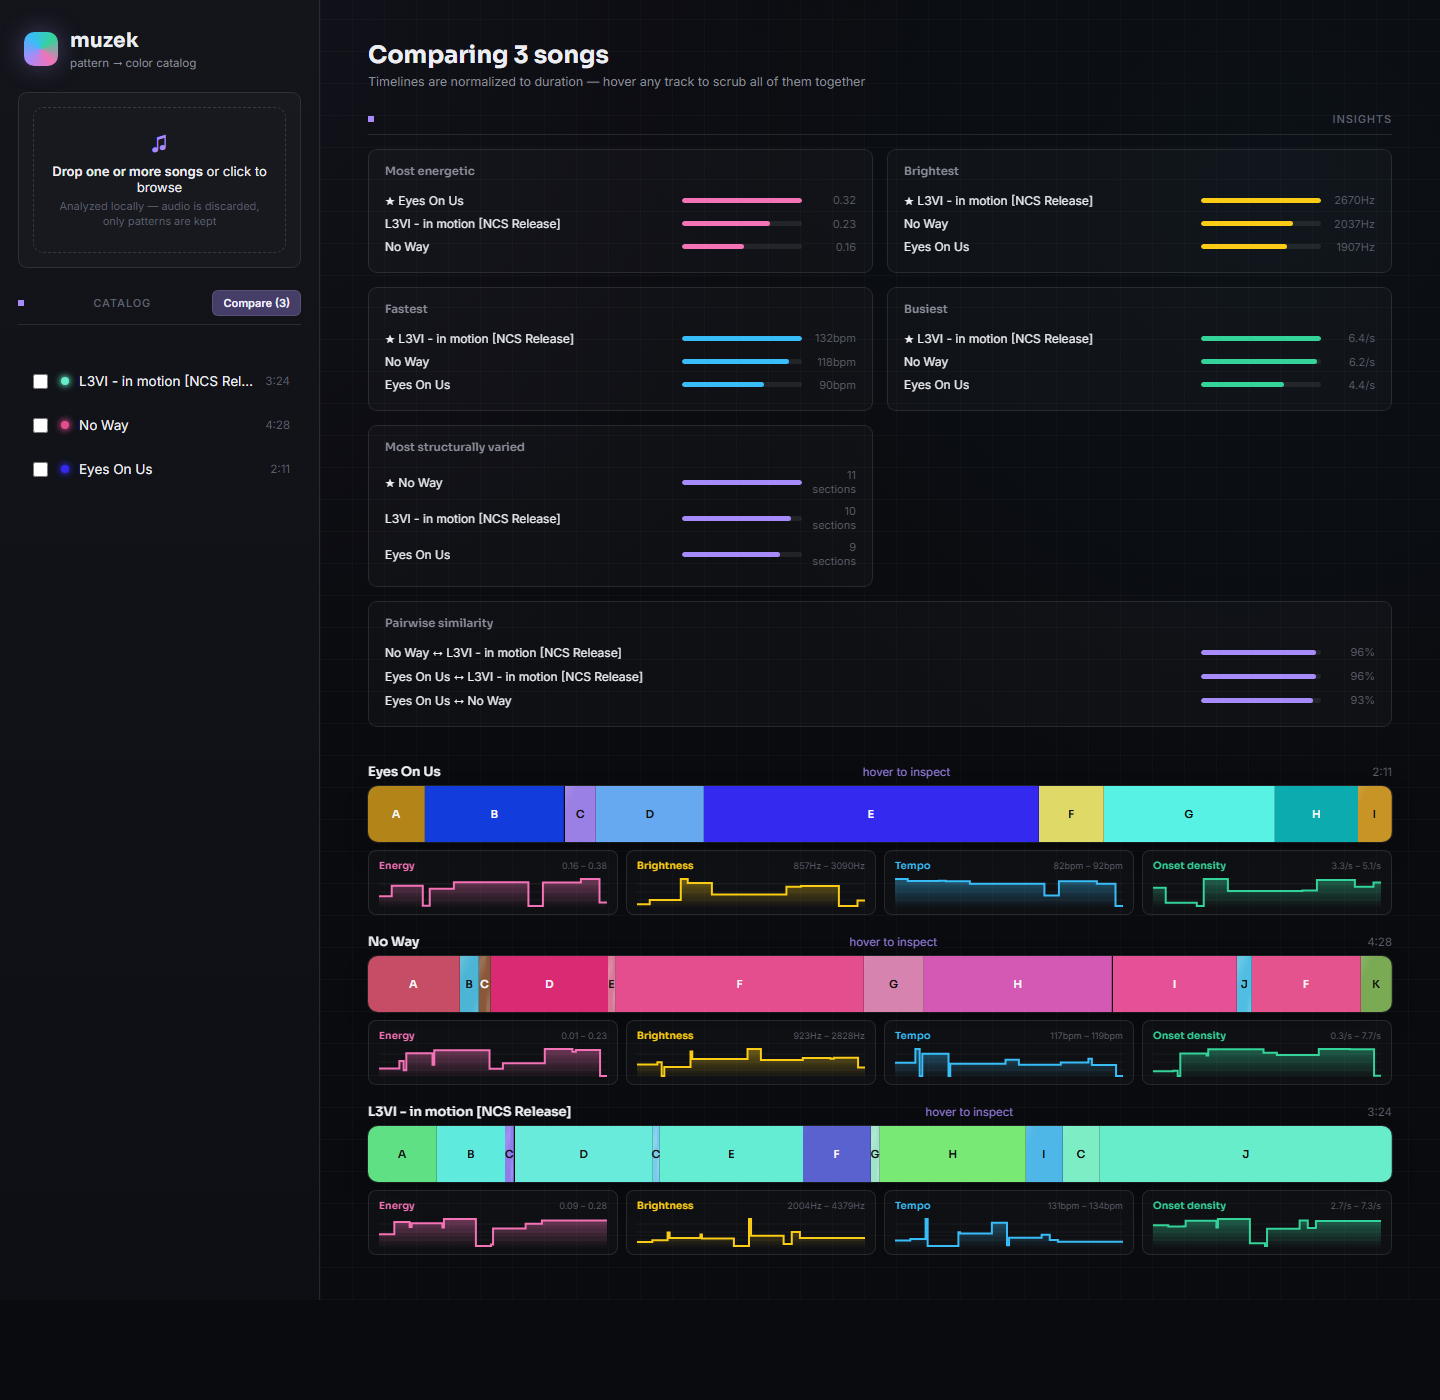
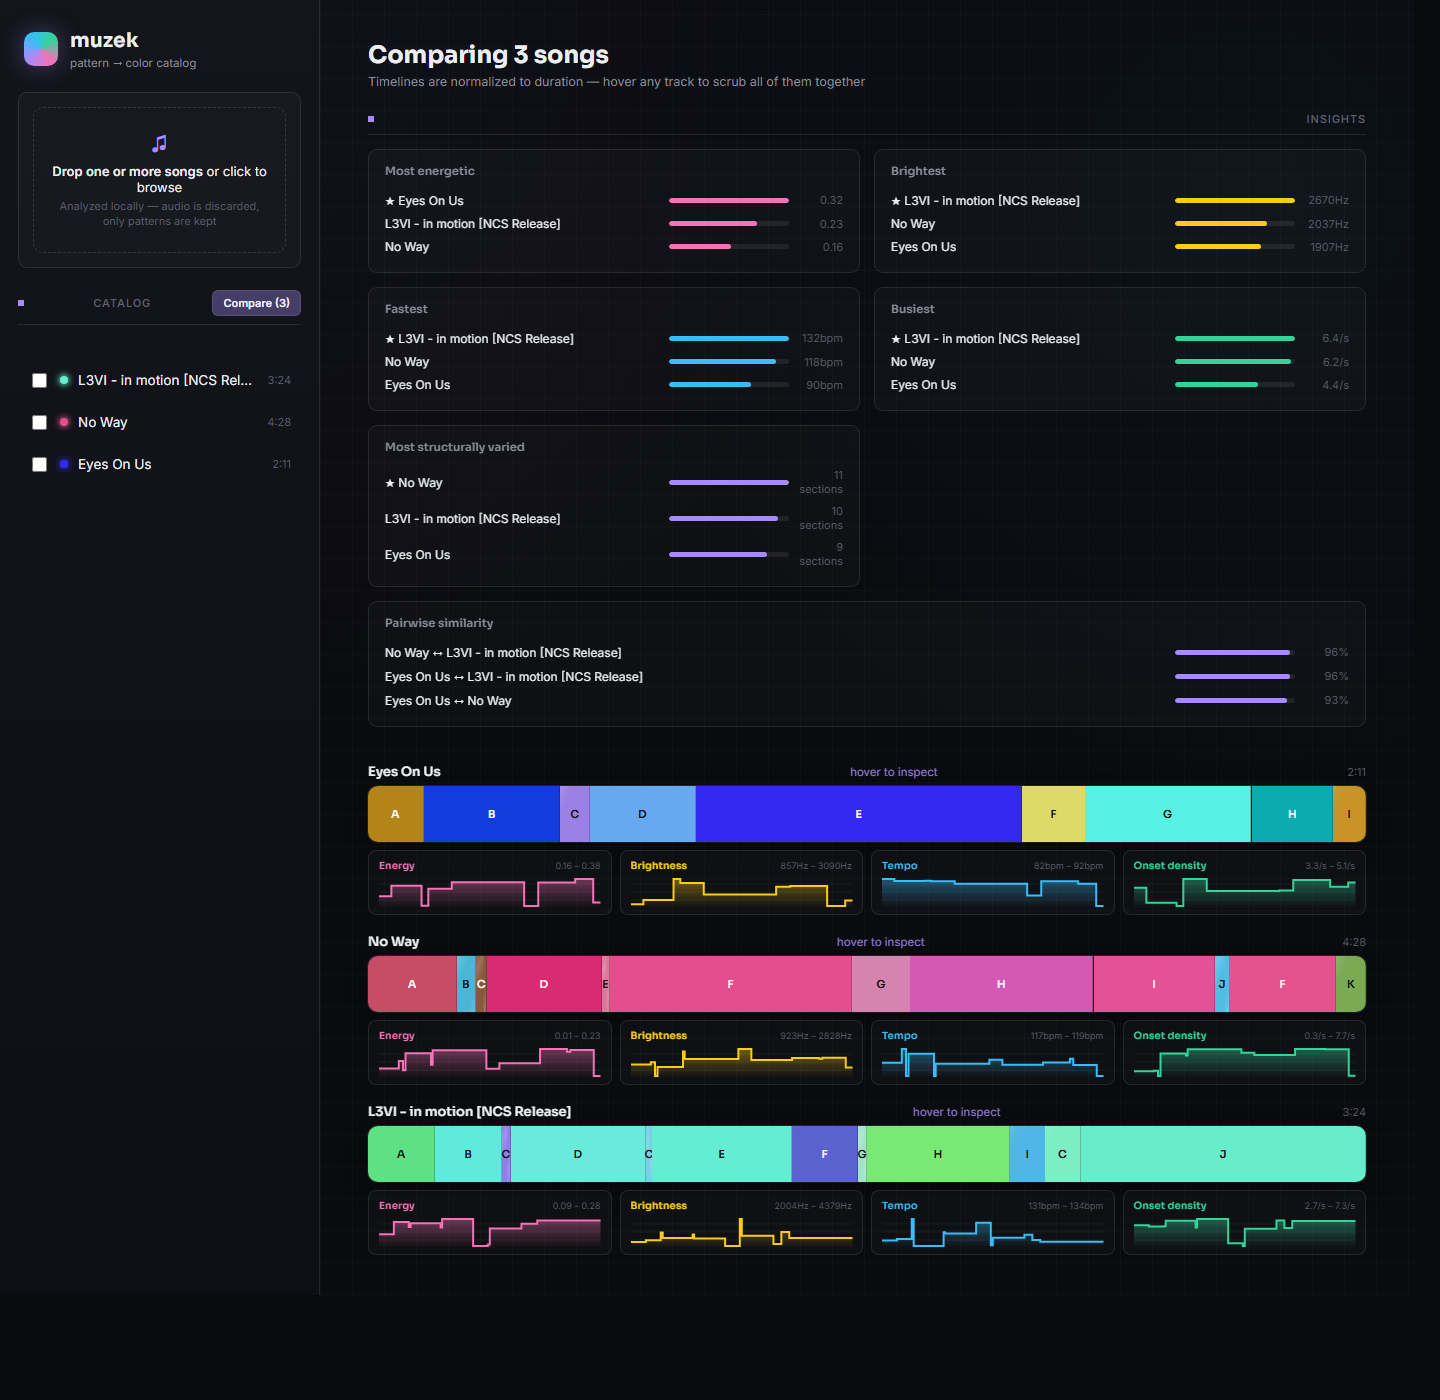
Push the instrument-panel aesthetic further
- Corner-bracket "targeting reticle" frame (pure CSS, layered backgrounds,
  no extra DOM) on the color timeline and DNA ring -- the panels carrying
  the most information. Timeline needed a padded wrapper since its segment
  blocks are opaque and were fully covering the container's own background.
- Detail panel dropped the glassy backdrop-blur for a flatter, solid readout
  panel, and its values are now monospace.
- Song list rows switched from a rounded active-pill to a left accent bar
  (channel-strip style), tighter radius.
- All remaining numeric/time text (durations, song-meta, upload status)
  unified onto the monospace font; split .song-meta from the compare view's
  prose hint so only actual data readouts go monospace.
- Small legend under the DNA ring decoding the codon tiers (L/M/H, 1-4).

diff --git a/muzek/web/static/style.css b/muzek/web/static/style.css
@@ -78,6 +78,34 @@ h1, h2, h3 {
   white-space: nowrap;
 }
 
+/* Targeting-reticle corner brackets on the four corners of a panel -- built
+   from layered backgrounds (not extra DOM nodes) so it can drop onto any
+   container. Reinforces the "instrument readout" framing on the panels that
+   carry the most information (color timeline, DNA ring, detail readout). */
+.bracket-frame {
+  --bracket-color: rgba(167, 139, 250, 0.45);
+  background-image:
+    linear-gradient(var(--bracket-color), var(--bracket-color)),
+    linear-gradient(var(--bracket-color), var(--bracket-color)),
+    linear-gradient(var(--bracket-color), var(--bracket-color)),
+    linear-gradient(var(--bracket-color), var(--bracket-color)),
+    linear-gradient(var(--bracket-color), var(--bracket-color)),
+    linear-gradient(var(--bracket-color), var(--bracket-color)),
+    linear-gradient(var(--bracket-color), var(--bracket-color)),
+    linear-gradient(var(--bracket-color), var(--bracket-color));
+  background-repeat: no-repeat;
+  background-size:
+    14px 2px, 2px 14px,
+    14px 2px, 2px 14px,
+    14px 2px, 2px 14px,
+    14px 2px, 2px 14px;
+  background-position:
+    top left, top left,
+    top right, top right,
+    bottom left, bottom left,
+    bottom right, bottom right;
+}
+
 .layout {
   display: flex;
   min-height: 100vh;
@@ -235,6 +263,7 @@ h1, h2, h3 {
 
 .upload-queue-status {
   font-size: 10.5px;
+  font-family: var(--mono);
   color: var(--text-dimmer);
   flex-shrink: 0;
   min-width: 58px;
@@ -358,11 +387,12 @@ h1, h2, h3 {
   display: flex;
   align-items: center;
   gap: 10px;
-  padding: 9px 10px;
-  border-radius: 10px;
+  padding: 9px 10px 9px 8px;
+  border-radius: var(--radius-sm);
   cursor: pointer;
   font-size: 13.5px;
-  border: 1px solid transparent;
+  border-left: 2px solid transparent;
+  transition: background 0.15s ease, border-color 0.15s ease;
 }
 
 .song-list-item:hover {
@@ -370,8 +400,8 @@ h1, h2, h3 {
 }
 
 .song-list-item.active {
-  background: rgba(167, 139, 250, 0.1);
-  border-color: var(--accent-soft);
+  background: rgba(167, 139, 250, 0.08);
+  border-left-color: var(--accent);
 }
 
 .song-checkbox {
@@ -398,7 +428,8 @@ h1, h2, h3 {
 
 .song-list-duration {
   color: var(--text-dimmer);
-  font-size: 11.5px;
+  font-size: 11px;
+  font-family: var(--mono);
 }
 
 .song-list-empty {
@@ -440,11 +471,21 @@ h1, h2, h3 {
 }
 
 .song-meta {
-  font-size: 12.5px;
+  font-size: 12px;
+  font-family: var(--mono);
   color: var(--text-dim);
 }
 
+.song-meta-prose {
+  font-family: "Inter", sans-serif;
+  font-size: 12.5px;
+}
+
 /* ---------- Single timeline ---------- */
+
+.timeline-frame {
+  padding: 6px;
+}
 
 .timeline {
   display: flex;
@@ -563,11 +604,10 @@ h1, h2, h3 {
   display: flex;
   gap: 22px;
   align-items: flex-start;
-  background: var(--panel);
+  background: var(--bg-elevated);
   border: 1px solid var(--panel-border);
   border-radius: var(--radius);
   padding: 18px 22px;
-  backdrop-filter: blur(8px);
 }
 
 .detail-panel-enter {
@@ -601,6 +641,7 @@ h1, h2, h3 {
   font-size: 15px;
   margin-top: 3px;
   font-weight: 500;
+  font-family: var(--mono);
 }
 
 /* ---------- Feature graphs ---------- */
@@ -794,6 +835,14 @@ h1, h2, h3 {
   margin-top: 18px;
 }
 
+.dna-legend {
+  text-align: center;
+  font-size: 10px;
+  font-family: var(--mono);
+  color: var(--text-dimmer);
+  margin: 10px 0 0;
+}
+
 .dna-chip {
   font-family: "Inter", monospace;
   font-size: 11px;
@@ -911,7 +960,8 @@ h1, h2, h3 {
 }
 
 .similar-song-duration {
-  font-size: 11.5px;
+  font-size: 11px;
+  font-family: var(--mono);
   color: var(--text-dimmer);
 }
 
@@ -1068,7 +1118,8 @@ h1, h2, h3 {
 
 .compare-track-duration {
   color: var(--text-dimmer);
-  font-size: 11.5px;
+  font-size: 11px;
+  font-family: var(--mono);
   flex-shrink: 0;
 }
 

diff --git a/muzek/web/templates/index.html b/muzek/web/templates/index.html
@@ -59,18 +59,21 @@
           </div>
         </header>
 
-        <div id="timeline" class="timeline"></div>
+        <div class="timeline-frame bracket-frame">
+          <div id="timeline" class="timeline"></div>
+        </div>
         <div id="timeline-ruler" class="timeline-ruler"></div>
 
-        <div id="detail-panel" class="detail-panel hidden"></div>
+        <div id="detail-panel" class="detail-panel bracket-frame hidden"></div>
 
         <section class="dna-section">
           <div class="panel-label">
             <h3>DNA</h3>
             <span class="panel-label-meta" id="dna-caption"></span>
           </div>
-          <div class="dna-helix" id="dna-helix"></div>
+          <div class="dna-helix bracket-frame" id="dna-helix"></div>
           <div class="dna-sequence" id="dna-sequence"></div>
+          <p class="dna-legend">L/M/H &mdash; energy &middot; brightness tier &nbsp;&nbsp; 1&ndash;4 &mdash; rhythm density tier</p>
         </section>
 
         <section class="graphs-section">
@@ -93,7 +96,7 @@
         <header class="song-header">
           <div>
             <h2>Comparing <span id="compare-title-count"></span> songs</h2>
-            <span class="song-meta">Timelines are normalized to duration &mdash; hover any track to scrub all of them together</span>
+            <span class="song-meta song-meta-prose">Timelines are normalized to duration &mdash; hover any track to scrub all of them together</span>
           </div>
         </header>
 
